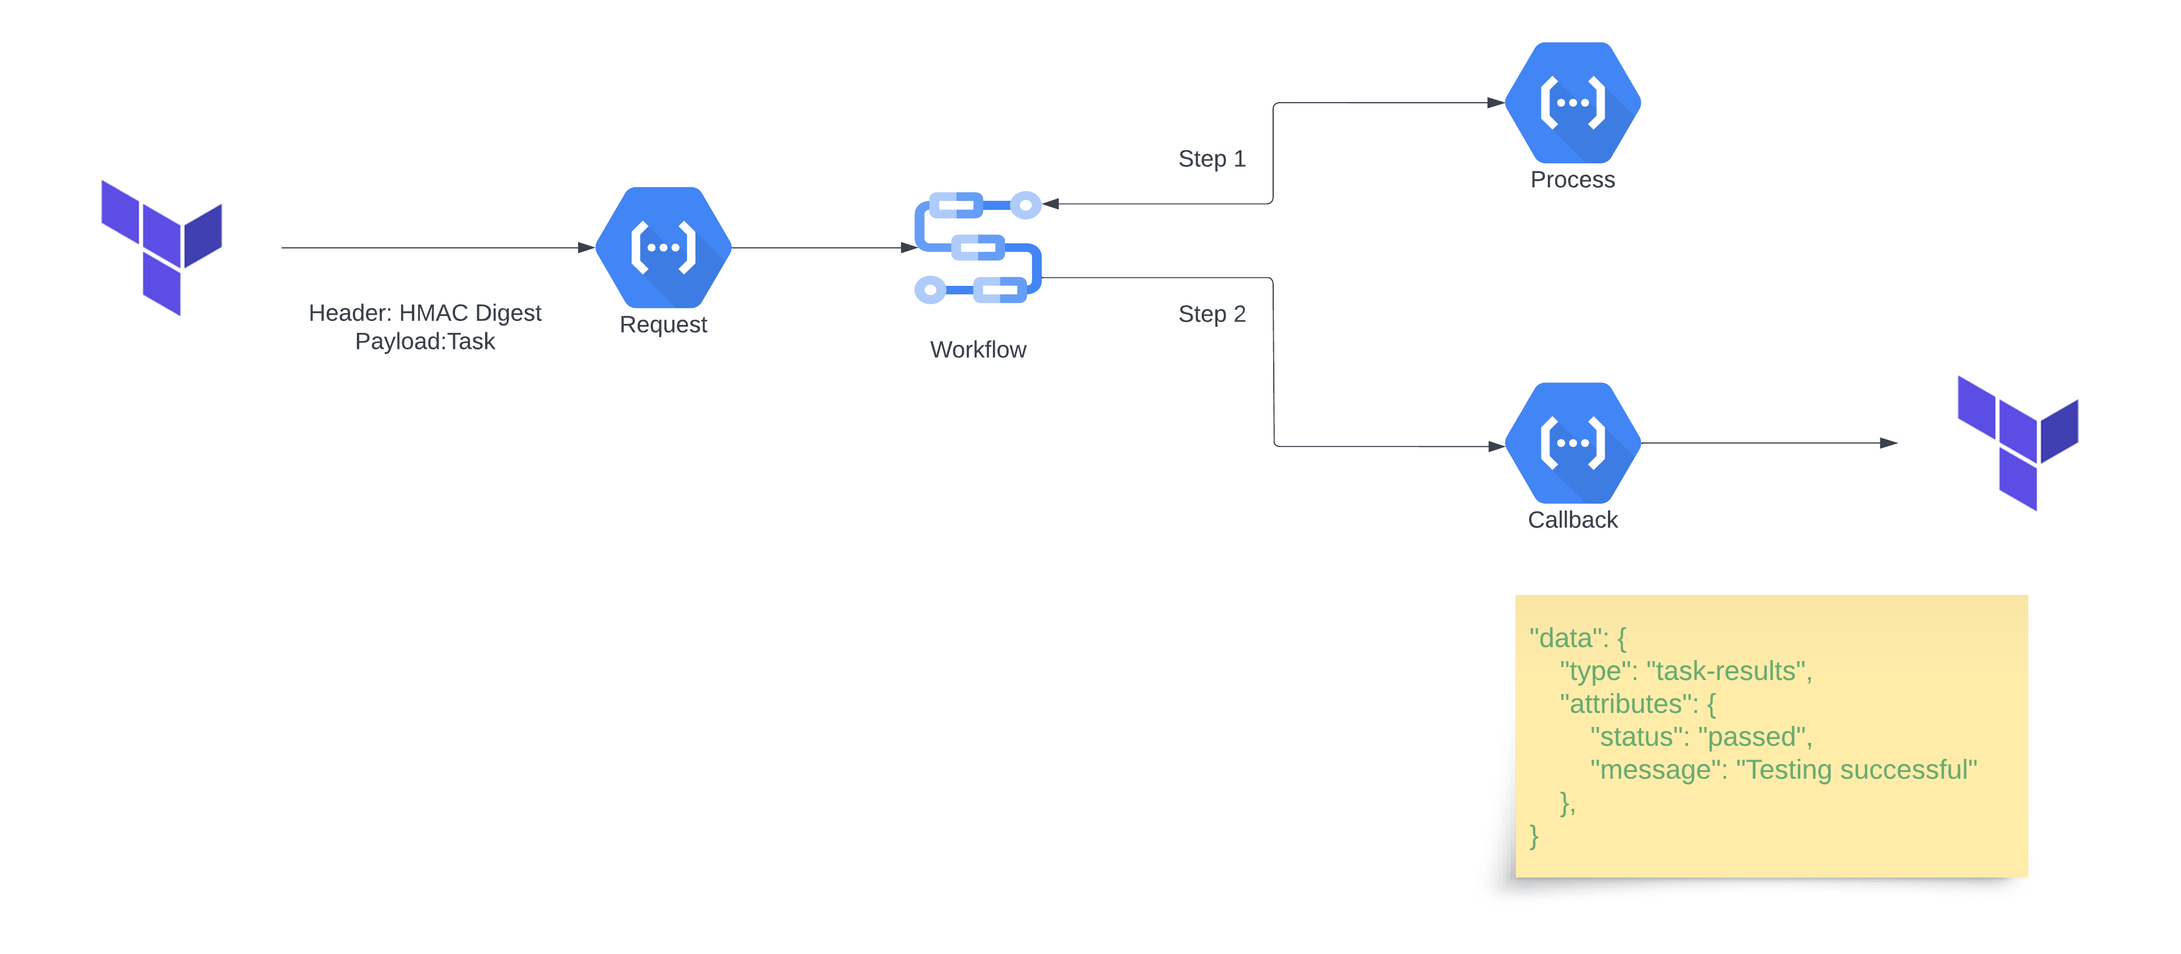
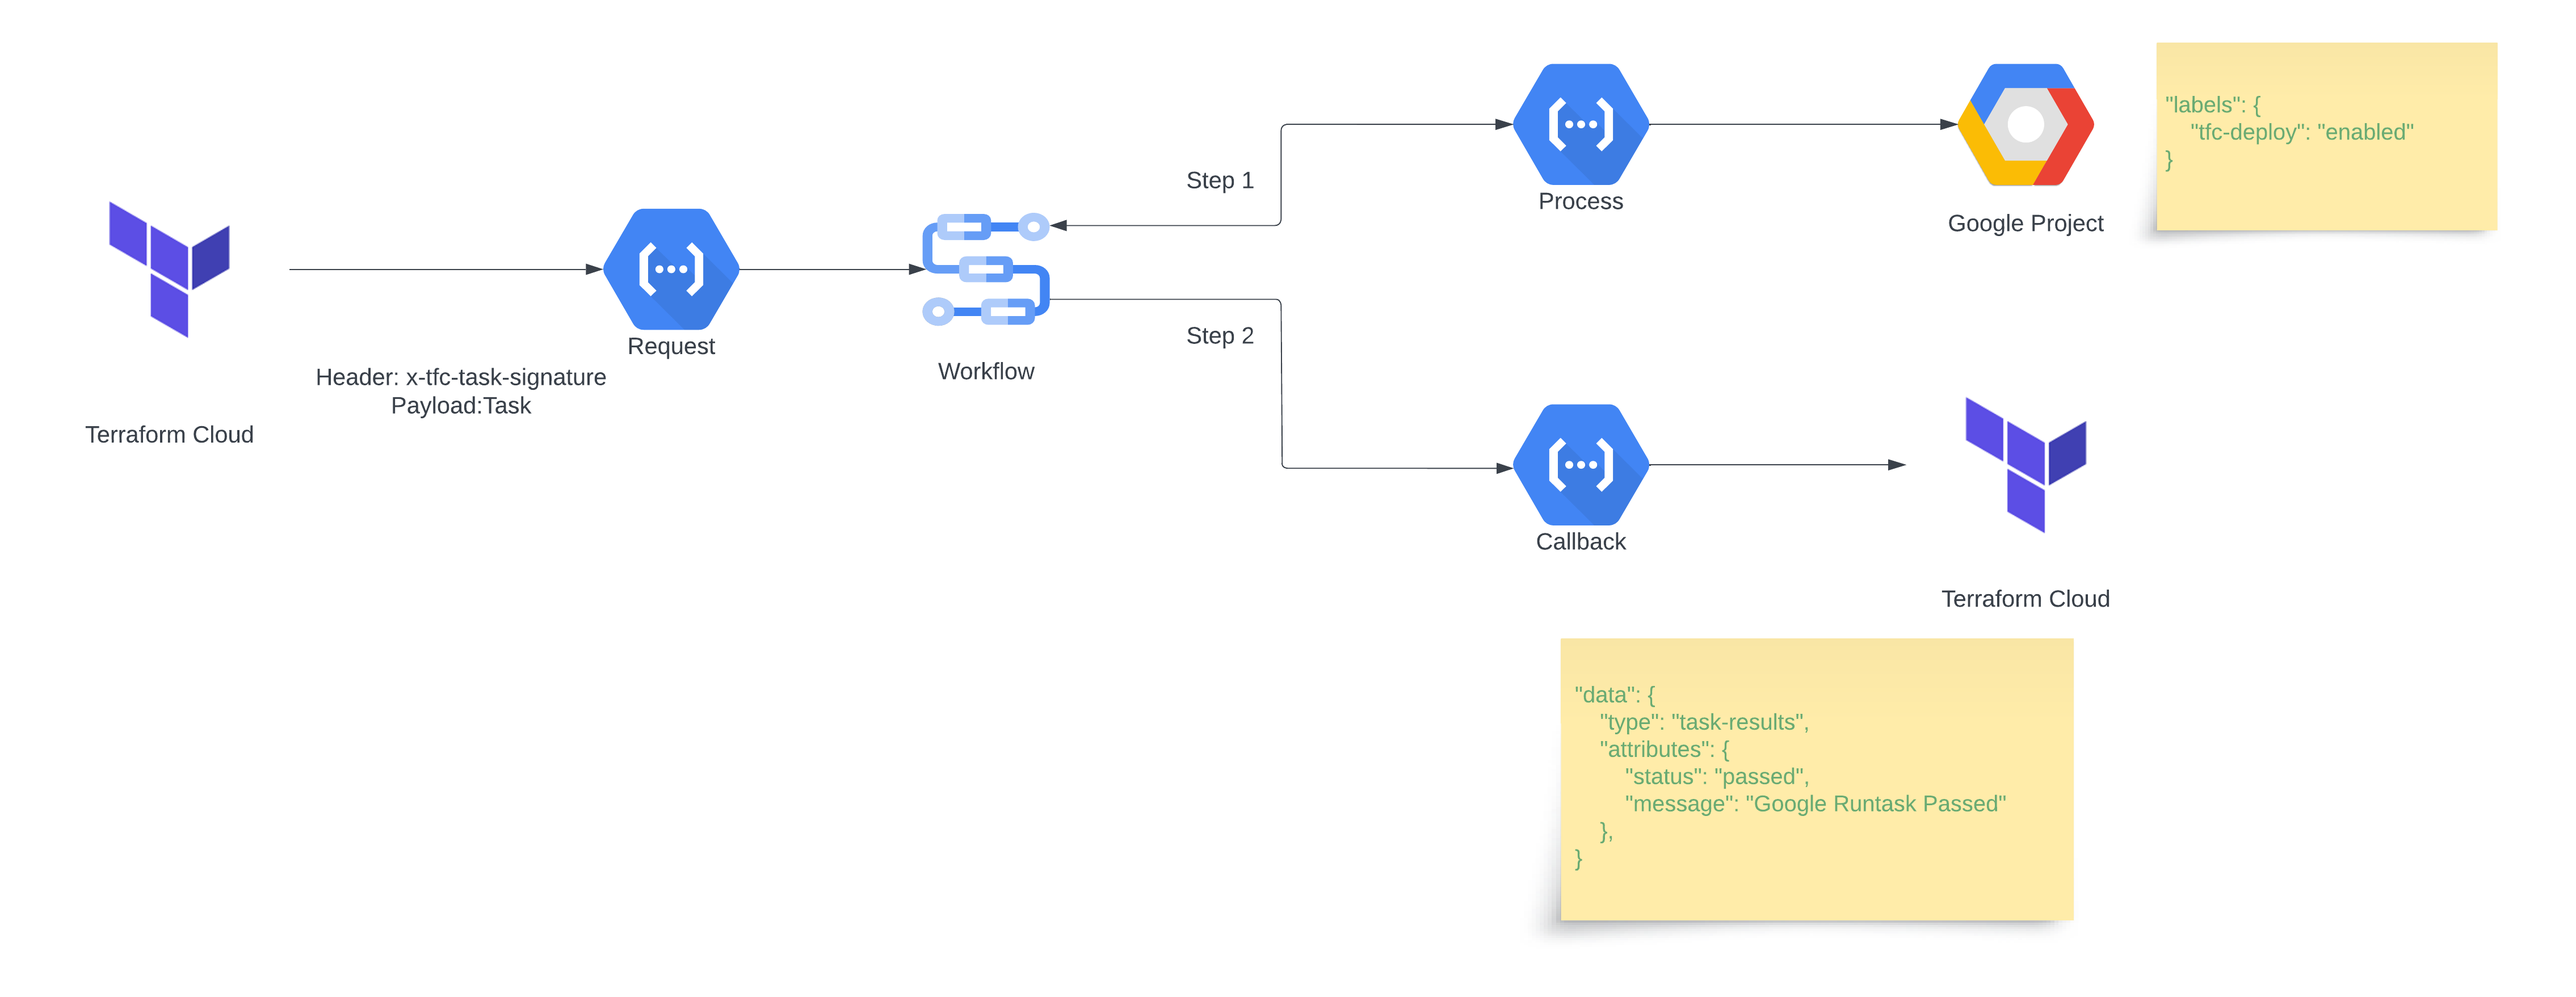
Updated cloud functions

diff --git a/cloud_functions/runtask_process/main.py b/cloud_functions/runtask_process/main.py
@@ -1,0 +1,90 @@
+import logging
+import os
+import functions_framework
+import google.cloud.logging
+import googleproject
+
+# Setup google cloud logging and ignore errors if authentication fails
+if "DISABLE_GOOGLE_LOGGING" not in os.environ:
+    try:
+        client = google.cloud.logging.Client()
+        client.setup_logging()
+    except google.auth.exceptions.DefaultCredentialsError:
+        pass
+
+if 'LOG_LEVEL' in os.environ:
+    logging.getLogger().setLevel(os.environ['LOG_LEVEL'])
+    logging.info("LOG_LEVEL set to %s" % logging.getLogger().getEffectiveLevel())
+
+if "TFC_PROJECT_LABEL" in os.environ:
+    TFC_PROJECT_LABEL = os.environ["TFC_PROJECT_LABEL"]
+else:
+    TFC_PROJECT_LABEL = "tfc-deploy"
+
+@functions_framework.http
+def process_handler(request):
+
+    try:
+        logging.info("headers: " + str(request.headers))
+        logging.info("payload: " + str(request.get_data()))
+
+        headers = request.headers
+        payload = request.get_json(silent=True)
+        http_msg = "{}"
+
+        if payload and "workspace_name" in payload:
+
+            project_id = payload["workspace_name"]
+            validate_result, validate_msg = validate_deployment(project_id)
+            runtask_msg = "Google Cloud Runtask Budgets - {}".format(validate_msg)
+
+            if validate_result:
+                runtask_status = "passed"
+            else:
+                runtask_status = "failed"
+
+            http_msg = {
+                "message": runtask_msg,
+                "status": runtask_status
+            }
+
+            http_code = 200
+
+        else:
+            msg = "Payload missing in request"
+            http_code = 422
+            logging.warning(payload)
+
+        logging.info(f"{http_code} - {http_msg}")
+
+        return http_msg, http_code
+
+    except Exception as e:
+        logging.exception("Run Task Process error: {}".format(e))
+        msg = "Internal Run Task Process error occurred"
+        status = 500
+        logging.warning(f"{status} - {msg}: {e}")
+
+        return msg, status
+
+
+def validate_deployment(project_id: str) -> (bool, str):
+
+    msg = ""
+    result = False
+    try:
+        proj = googleproject.GoogleProject()
+        proj.get(project_id)
+
+        if proj.label(TFC_PROJECT_LABEL).lower() == "true":
+            result = True
+            msg = "TFC deployments enabled"
+        else:
+            msg = "TFC deployments disabled"
+
+    except Exception as e:
+        logging.exception("Warning: {}".format(e))
+        # print("Error: {}".format(e))
+        msg = "Google project label lookup failed"
+
+    return result, msg

diff --git a/cloud_functions/tests/test_runtask_process_integration.py b/cloud_functions/tests/test_runtask_process_integration.py
@@ -1,7 +1,9 @@
+import json
 import os
+# import sys
+# sys.path.insert(0, f"{os.path.dirname(__file__)}/../runtask_process")
+
 import subprocess
-import pytest
-import time
 import requests
 from requests.packages.urllib3.util.retry import Retry
 
@@ -18,7 +20,7 @@ def test_process_integration():
         env=os.environ
     )
 
-    url =  f"http://localhost:{port}"
+    url = f"http://localhost:{port}"
 
     retry_policy = Retry(total=6, backoff_factor=1)
     retry_adapter = requests.adapters.HTTPAdapter(max_retries=retry_policy)
@@ -27,18 +29,14 @@ def test_process_integration():
     session.mount(url, retry_adapter)
 
     data = {
-        "task": {},
-        "result": {}
+        "workspace_name": "00000"
     }
 
-    response = session.post(url, json=data)
+    response = session.post(url, json=json.dumps(data))
 
     # Stop the functions framework process
     process.kill()
     process.wait()
 
-    assert response.status_code == 200
-    assert response.text in [
-        '{"message":"Google Cloud Runtask Budgets - failed","status":"failed"}\n',
-        '{"message":"Google Cloud Runtask Budgets - passed","status":"passed"}\n'
-    ]
+    assert response.status_code == 500
+    assert response.text == "Internal Run Task Process error occurred"

diff --git a/cloud_functions/tests/test_runtask_process.py b/cloud_functions/tests/test_runtask_process.py
@@ -1,0 +1,24 @@
+import os
+import sys
+sys.path.insert(0, f"{os.path.dirname(__file__)}/../runtask_process")
+
+from unittest.mock import Mock
+from runtask_process import main
+
+
+def test_process_handler():
+    data = {
+        "workspace_name": "00000"
+    }
+
+    req = Mock(get_json=Mock(return_value=data), args=data)
+
+    assert main.process_handler(req) == ({'message': 'Google Cloud Runtask Budgets - Google project label lookup failed', 'status': 'failed'}, 200)
+
+
+# def test_print_hello_world():
+#     data = {}
+#     req = Mock(get_json=Mock(return_value=data), args=data)
+#
+#     # Call tested function
+#     assert main.hello_http(req) == "Hello World!"

diff --git a/cloud_functions/tests/test_runtask_process_projects.py b/cloud_functions/tests/test_runtask_process_projects.py
@@ -1,10 +1,10 @@
 import pytest
-from runtask_process import google_project
 
+from runtask_process import googleproject
 
 @pytest.fixture
-def proj() -> google_project.GoogleProject:
-    proj = google_project.GoogleProject()
+def proj() -> googleproject.GoogleProject:
+    proj = googleproject.GoogleProject()
     proj.get(proj.default_project_id)
 
     return proj
@@ -20,4 +20,4 @@ def test_project_label_invalid(proj):
 
 def test_project_label_missing(proj):
     with pytest.raises(TypeError):
-        assert proj.label()
+        proj.label()

diff --git a/cloud_functions/runtask_process/googleproject.py b/cloud_functions/runtask_process/googleproject.py
@@ -20,13 +20,11 @@ class GoogleProject:
         self.default_project_id = default_project_id
         self.client = resourcemanager_v3.ProjectsClient(credentials=credentials)
 
-
     def get(self, project_id: str) -> google.cloud.resourcemanager_v3.types.projects.Project:
         request = resourcemanager_v3.GetProjectRequest(name="projects/{}".format(project_id))
         self.project = self.client.get_project(request=request)
 
         return self.project
-
 
     def label(self, label: str) -> str:
         value = ""

diff --git a/cloud_functions/tests/test_runtask_callback.py b/cloud_functions/tests/test_runtask_callback.py
@@ -3,7 +3,6 @@ import requests_mock
 from unittest.mock import Mock
 from runtask_callback import main
 
-
 def test_callback_handler_validate_request():
     data = {
         "task": {},
